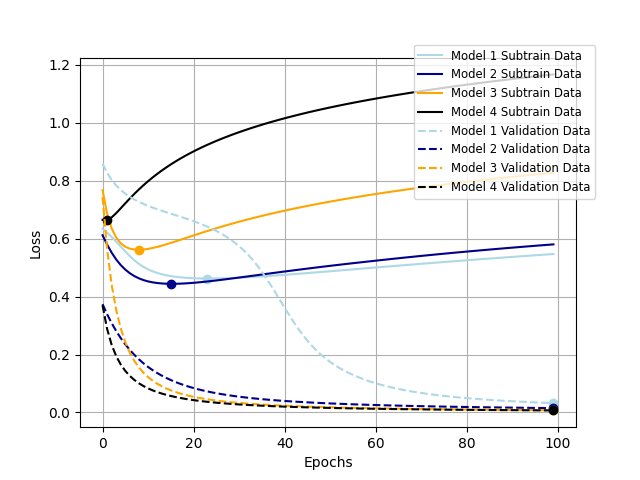
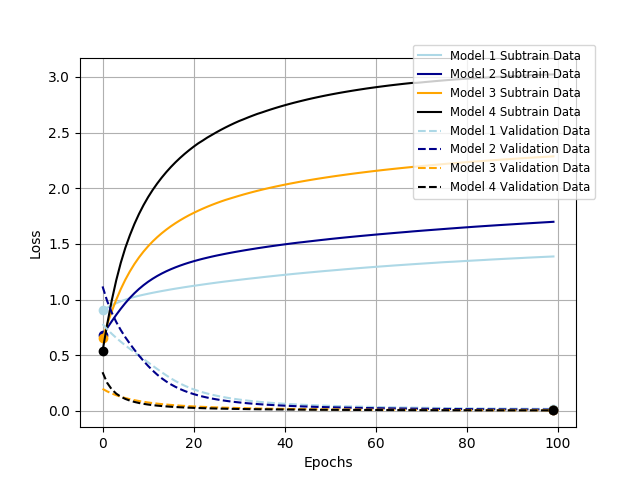
hard coded line styles

diff --git a/project5.py b/project5.py
@@ -65,7 +65,7 @@ def run_single_layered_NN(X_mat, y_vec, hidden_layers, num_epochs, data_set):
                                     y=y_vec,
                                     epochs=num_epochs,
                                     verbose=0,
-                                    validation_split=.05)
+                                    validation_split=.005)
 
         # update model number
         model_number += 1
@@ -101,24 +101,24 @@ def graph_model_data(model_data_list, num_epochs, set):
         for data in model_data:
             if(set[set_index] == 'Train'):
                 plt.plot(range(0,num_epochs), data.history['val_loss'], markevery=num_epochs,
-                                color = colors[color_index], linestyle = line_style[set_index],
+                                color = colors[color_index], linestyle = 'solid',
                                 label = f"Model {model_index} {set[set_index]} Data")
 
             if(set[set_index] == 'Subtrain'):
                 plt.plot(range(0,num_epochs), data.history['val_loss'], markevery=num_epochs,
-                                color = colors[color_index], linestyle = line_style[set_index],
+                                color = colors[color_index], linestyle = 'solid',
                                 label = f"Model {model_index} {set[set_index]} Data")
 
 
             if(set[set_index] == 'Validation'):
                 plt.plot(range(0,num_epochs), data.history['val_loss'],
-                                color = colors[color_index], linestyle = line_style[set_index],
+                                color = colors[color_index], linestyle = 'dashed',
                                 label = f"Model {model_index} {set[set_index]} Data")
-                                
+
             valMin = np.amin(data.history['val_loss'])
             argMin = np.argmin(data.history['val_loss'])
             plt.plot(argMin, valMin, marker='o', color = colors[color_index])
-            
+
             color_index += 1
             model_index += 1
         set_index += 1
@@ -151,7 +151,7 @@ def init(data, epochs):
     X_subtrain, X_validation = np.split( X_train, [int(.5 * len(X_train))])
     y_subtrain, y_validation = np.split( y_train, [int(.5 * len(y_train))])
 
-    np.random.seed(0)
+    np.random.seed(5)
 
     model_data_subtrain_list = run_single_layered_NN(X_subtrain, y_subtrain,
                                     hidden_units_vec, epochs, "Subtrain")
@@ -171,9 +171,6 @@ def init(data, epochs):
         loss_data = model.history["val_loss"]
 
         best_num_epochs.append(loss_data.index(min(loss_data)) + 1)
-
-    print(best_num_epochs)
-
 
 
 def main():
